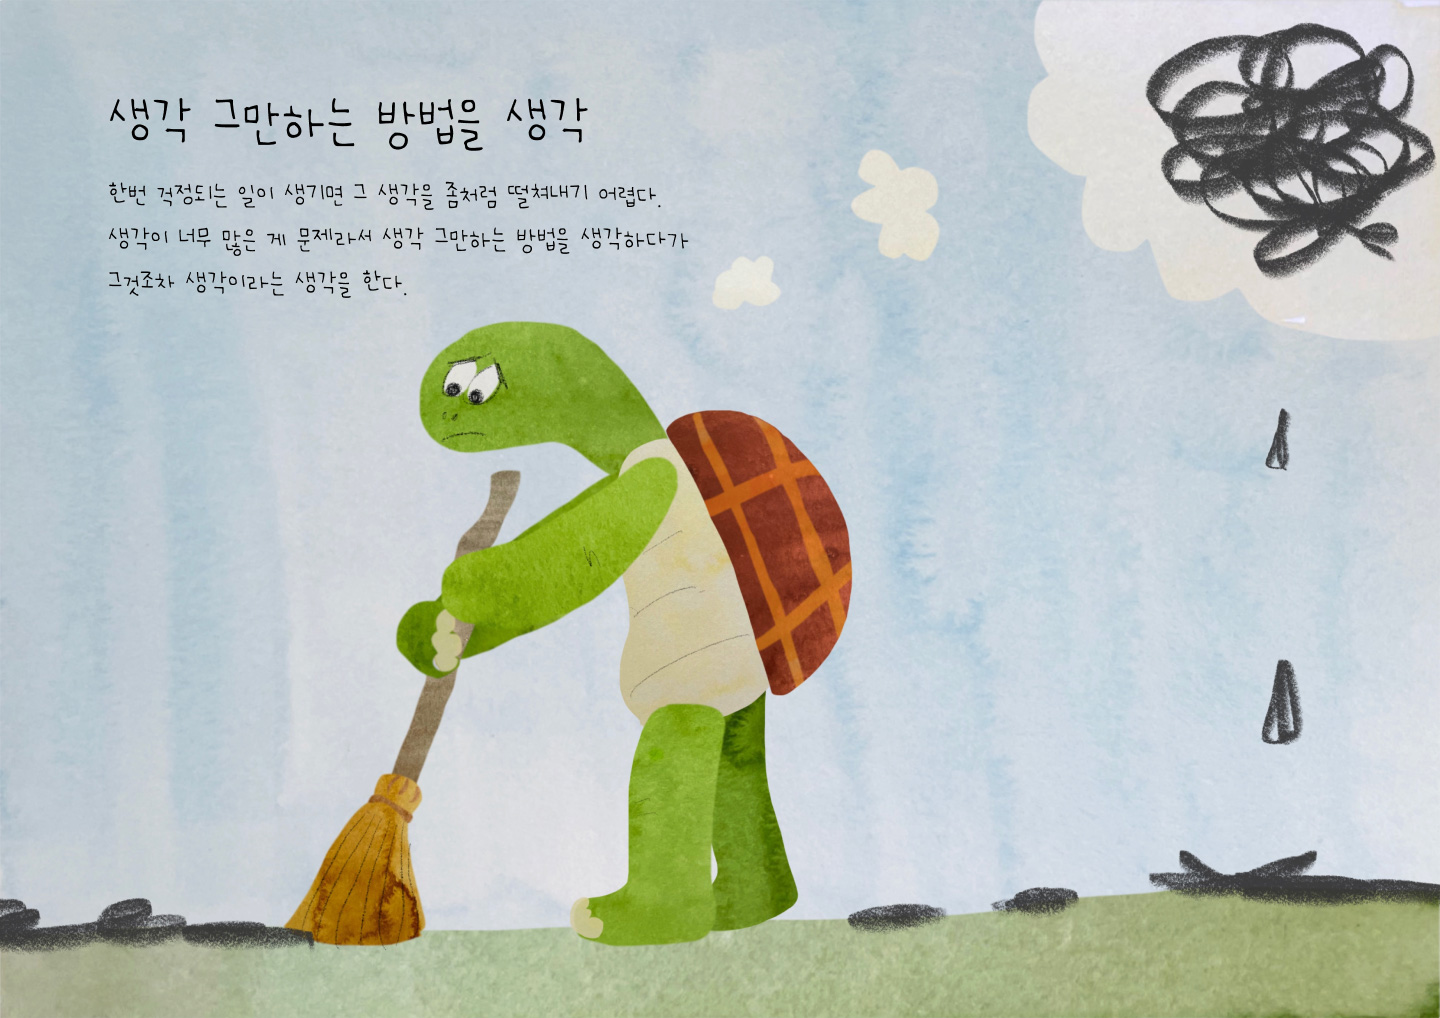
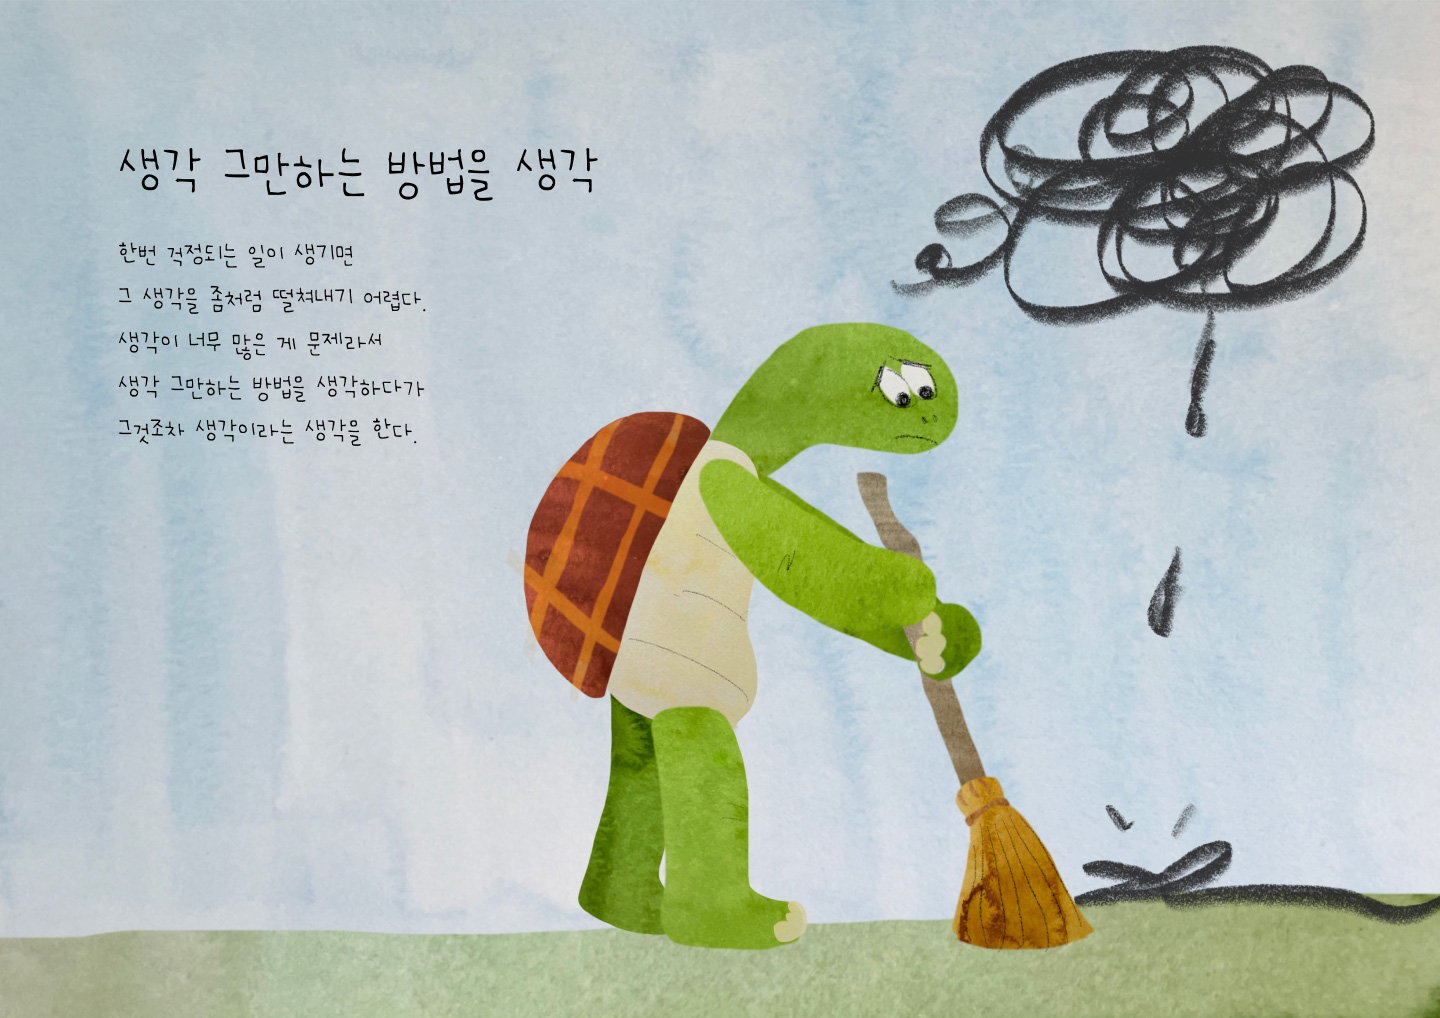
일러스트 수정 및 마진 추가

diff --git a/src/subject2/subject2.html b/src/subject2/subject2.html
@@ -28,21 +28,37 @@
             <!-- 1개 파일의 용량을 1MB 이하로 하시오. -->
             <!-- 비메오 영상 포맷 가이드라인 링크: https://help.vimeo.com/hc/en-us/articles/12426043233169-Video-and-audio-compression-guidelines -->
             <img src="./assets/01_cover1.jpg" alt="" />
+            <img src="./assets/margin.jpg" alt="" />
             <img src="./assets/02_overview.jpg" alt="" />
+            <img src="./assets/margin.jpg" alt="" />
             <img src="./assets/03_concept.jpg" alt="" />
+            <img src="./assets/margin.jpg" alt="" />
             <img src="./assets/04_artworks.jpg" alt="" />
+            <img src="./assets/margin.jpg" alt="" />
             <img src="./assets/06_cont.jpg" alt="" />
+            <img src="./assets/margin.jpg" alt="" />
             <img src="./assets/07_prol.jpg" alt="" />
+            <img src="./assets/margin.jpg" alt="" />
             <img src="./assets/08_part1.jpg" alt="" />
+            <img src="./assets/margin.jpg" alt="" />
             <img src="./assets/09_ep01.jpg" alt="" />
+            <img src="./assets/margin.jpg" alt="" />
             <img src="./assets/10_ep02.jpg" alt="" />
+            <img src="./assets/margin.jpg" alt="" />
             <img src="./assets/11_ep03.jpg" alt="" />
+            <img src="./assets/margin.jpg" alt="" />
             <img src="./assets/12_ep04.jpg" alt="" />
+            <img src="./assets/margin.jpg" alt="" />
             <img src="./assets/13_part2.jpg" alt="" />
+            <img src="./assets/margin.jpg" alt="" />
             <img src="./assets/14_ep05.jpg" alt="" />
+            <img src="./assets/margin.jpg" alt="" />
             <img src="./assets/15_ep06.jpg" alt="" />
+            <img src="./assets/margin.jpg" alt="" />
             <img src="./assets/16_ep07.jpg" alt="" />
+            <img src="./assets/margin.jpg" alt="" />
             <img src="./assets/17_ep08.jpg" alt="" />
+            <img src="./assets/margin.jpg" alt="" />
             <img src="./assets/18_epil.jpg" alt="" />
             <!-- 비메오 영상 포맷 가이드라인 링크: https://help.vimeo.com/hc/en-us/articles/12426043233169-Video-and-audio-compression-guidelines -->
             <!-- 1개 파일의 용량을 1MB 이하로 하시오. -->
